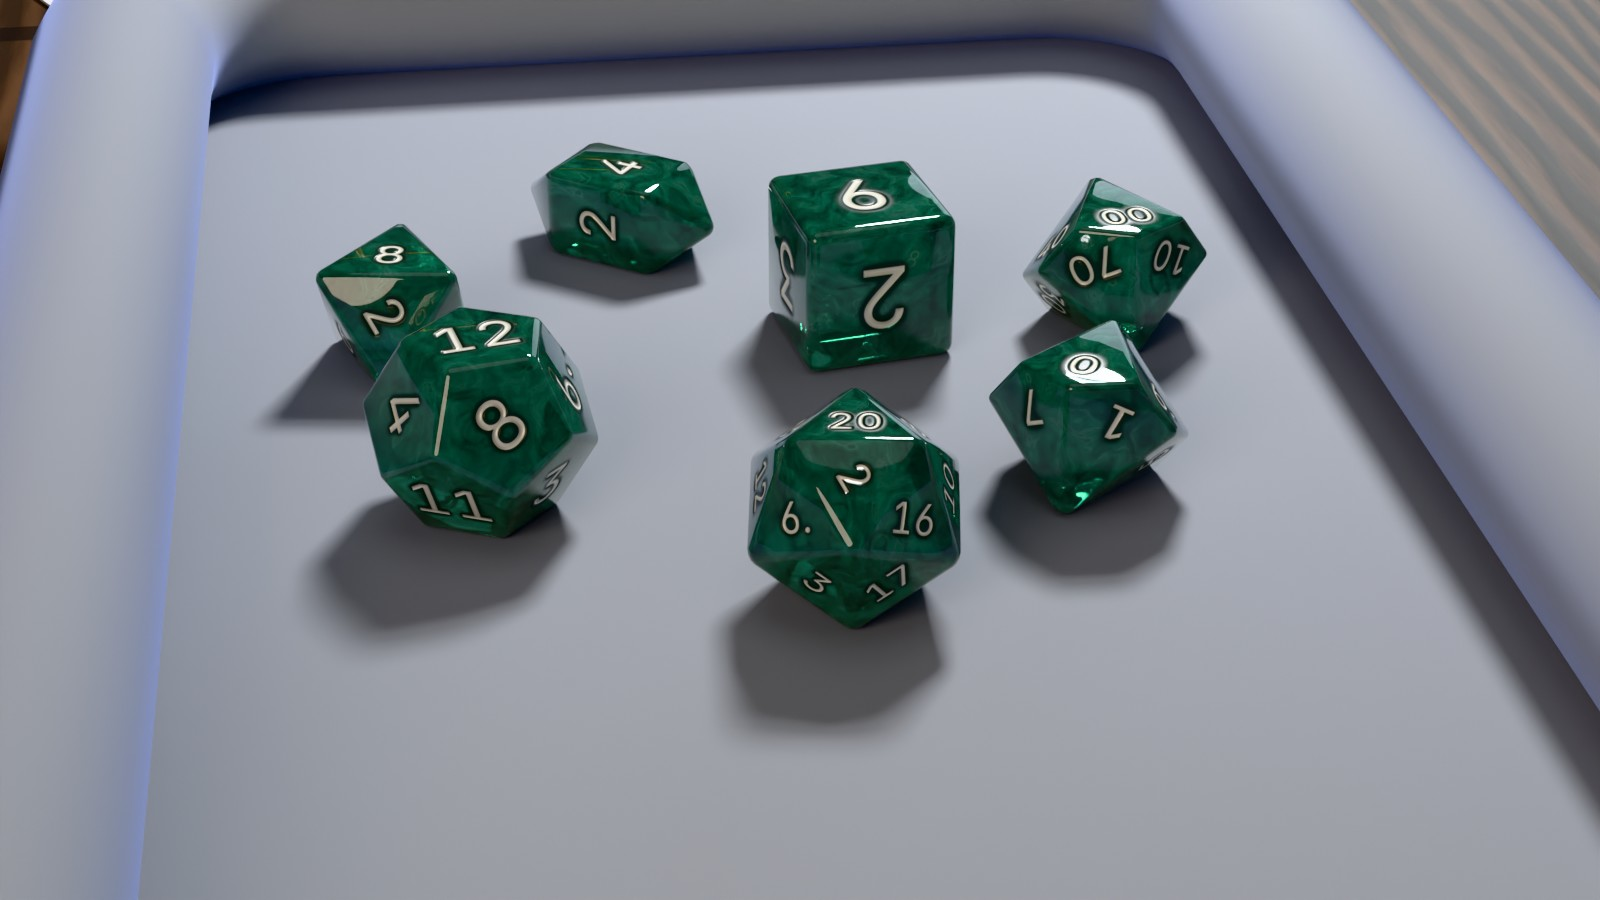
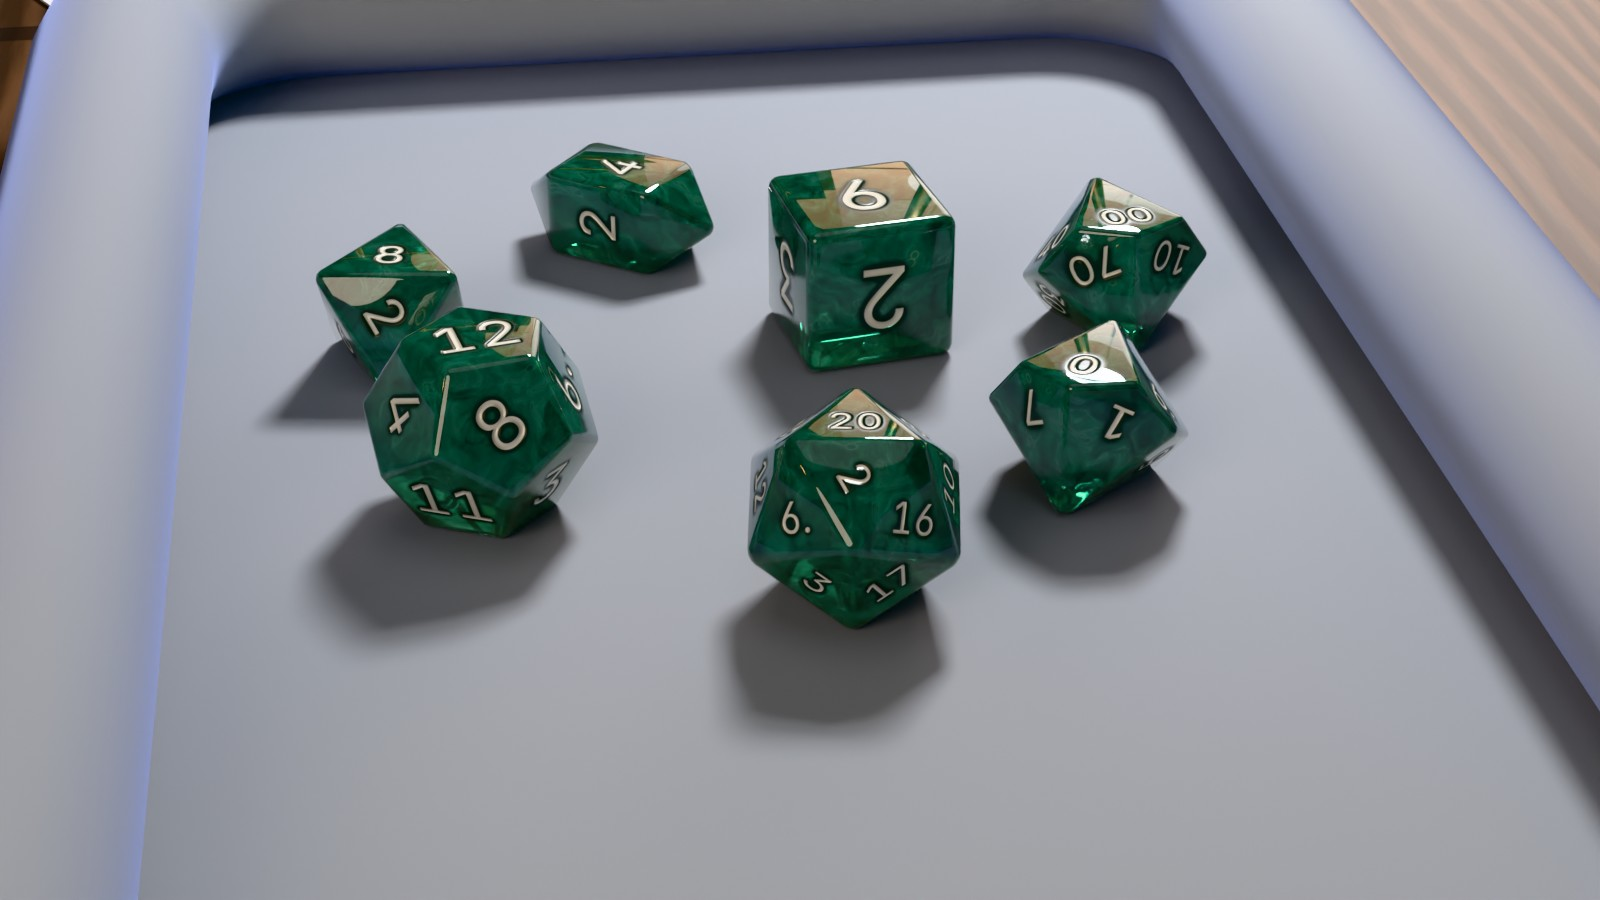
Game rooms: Gemcutter atelier

diff --git a/dart3d/example/tool/dice_lookdev/build_env_gemcutter.py b/dart3d/example/tool/dice_lookdev/build_env_gemcutter.py
@@ -123,6 +123,7 @@ def room(scene, top):
     now on a proper arm), the sunset window (warm orange, back-right), an
     emerald-glass lamp on the gem chest (green accent, right) and a brass
     wall lamp on the left (warm); plus the tray's fill, overhead and rim.
+    (The bench's own balance comes from the tray environment.)
     """
     panel = P.dark_wood("Atelier panel", c1=(0.025, 0.014, 0.01), c2=(0.07, 0.04, 0.025), varnish=0.5)
     walnut = P.dark_wood("Atelier walnut", c1=(0.05, 0.025, 0.012), c2=(0.16, 0.08, 0.04), varnish=0.7)
@@ -168,15 +169,4 @@ def room(scene, top):
             E.sphere("display_gem", 2.8, p, P.glass(f"Gem {j} {i}", color=gem_cols[(i + j) % 5], ior=1.7),
                      subdiv=1, scale=(1, 1, 0.8))
     RC.sconce(scene, "left", -60, 90, energy=12000, mat=brass)
-    # a brass balance on the bench, behind-left of the tray
-    bx, by = -45, 70
-    E.cylinder("balance_base", 7, 2, (bx, by, 1), brass, segs=32)
-    E.cylinder("balance_post", 0.8, 34, (bx, by, 18), brass, segs=12)
-    E.cube("balance_beam", (36, 1, 1), (bx, by, 35), brass)
-    for sx in (-1, 1):
-        for a in range(3):
-            ang = a * 2.09
-            ch = E.cylinder("balance_chain", 0.15, 16, (bx + sx * 17 + math.cos(ang) * 2.5, by + math.sin(ang) * 2.5,
-                                                        27), brass, segs=4)
-        E.cylinder("balance_pan", 6, 1, (bx + sx * 17, by, 19), brass, segs=32, r2=4)
     return dict(loc=(-20, -72, 42), target=(18, 100, 6), lens=20, fstop=4.0, focus=(0, 0, 2))

diff --git a/docs/design/dice-lookdev.md b/docs/design/dice-lookdev.md
@@ -1172,6 +1172,16 @@ Lighting recipes (the tray lights are unchanged unless noted):
   small table lanterns. Camera: 20 mm, f/4. Gate: numeral 5.26 (d10u),
   die vs tray 2.28, stroke 0.123–0.128, PASS.
 
+- **Gemcutter — the jeweler's atelier.** Dark panelled walls, a tall
+  mullioned window at the back-right onto a spired city at sunset (area,
+  35 kW, 1.0/0.62/0.35: the warm counter-light), a many-drawered gem chest
+  on the right with an emerald-glass lamp on it (shadowless 12 kW green,
+  the accent), a tool rack of gravers above it, glass display shelves of
+  cut stones and a brass sconce (12 kW, warm) on the left wall. The bench
+  lamp keeps its cool-white key and now stands on a brass arm. Camera:
+  20 mm, f/4. Gate: numeral 5.15 (d20), die vs tray 2.74, stroke
+  0.121–0.130, PASS.
+
 ## 4. dart3d features to verify (before building these for real)
 
 1. **Emissive intensity > 1 + bloom threshold** on both platforms, and
